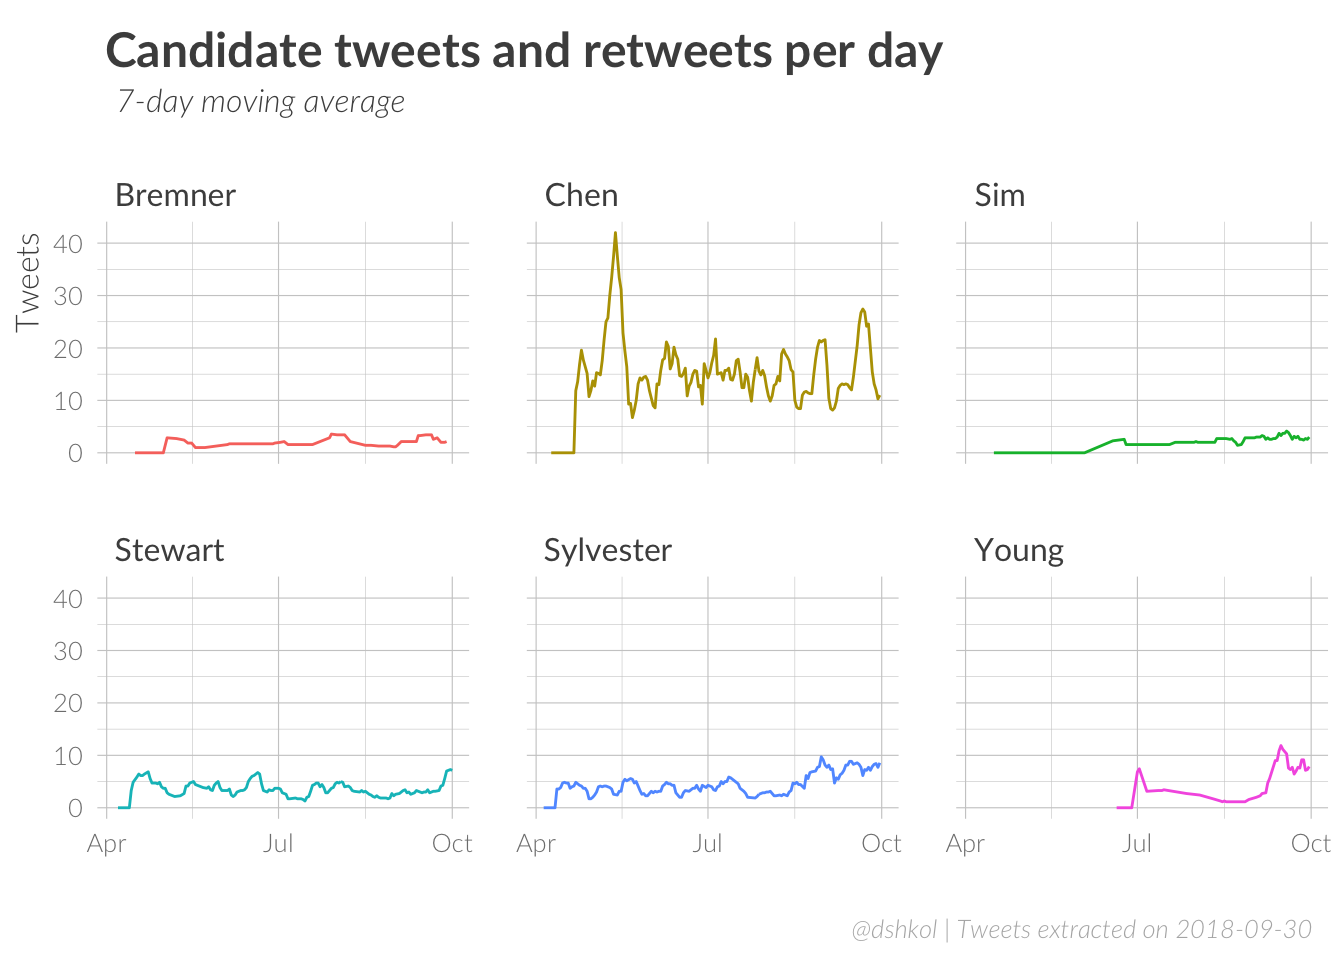
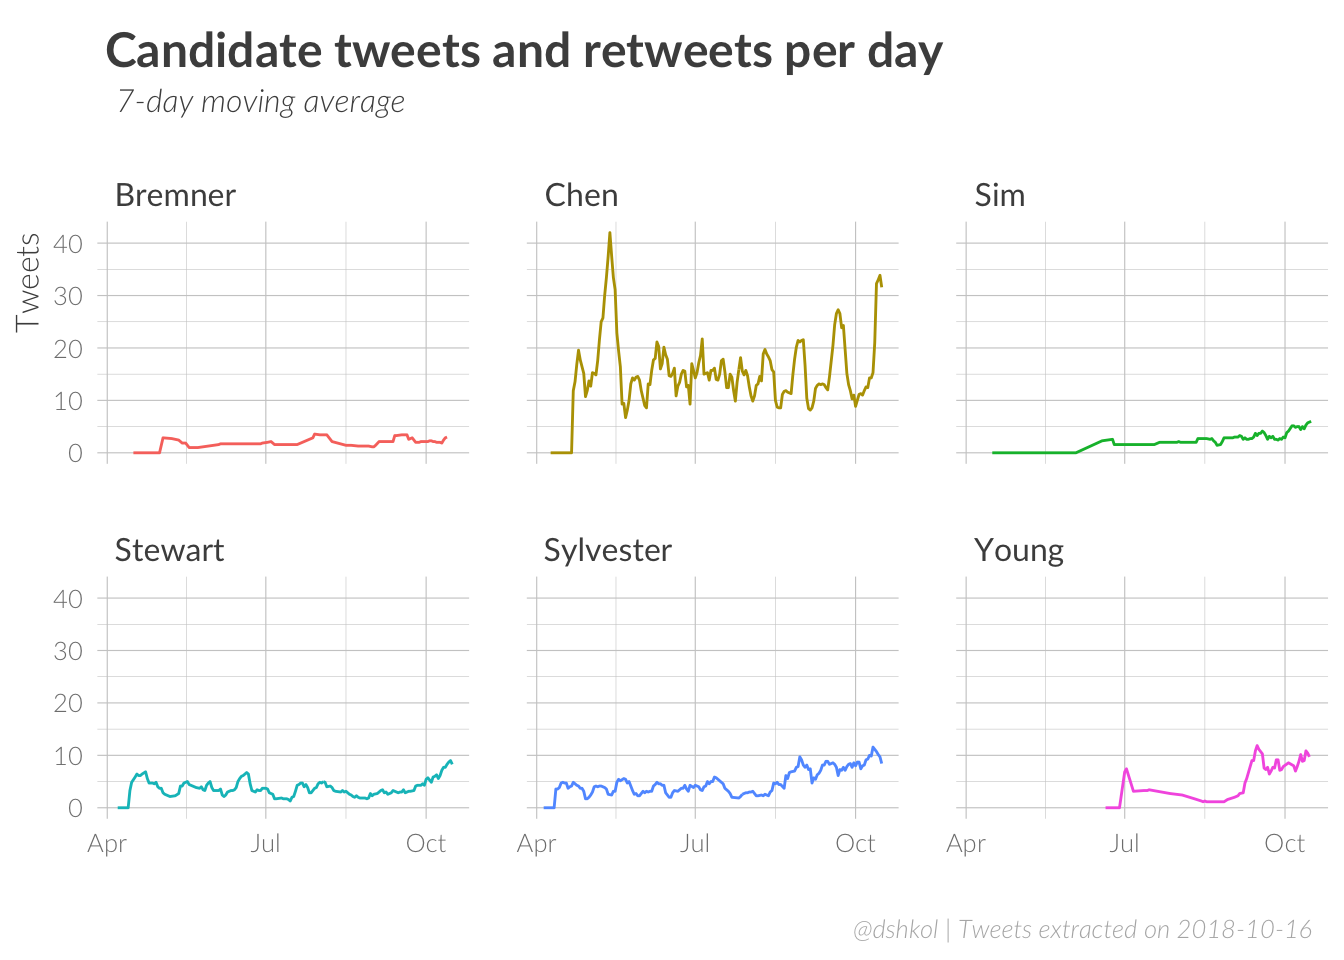
Update mayor tweet post
Extend tweet collection period up to October 15.

diff --git a/content/post/2018-10-01-a-look-at-the-vancouver-mayor-twitter-picture.html b/content/post/2018-10-01-a-look-at-the-vancouver-mayor-twitter-picture.html
@@ -19,6 +19,9 @@ draft: no
 
 
 
+<blockquote>
+<p>(Updated October 16, 2018) With the election coming up in the next week and this page getting more traffic, I decided to do a quick refresh of the data used in this post up to and including October 15. Changes are relatively few, and as this site is a github repo, can be tracked via commits to this post.</p>
+</blockquote>
 <div id="the-2018-municipal-election-in-vancouver" class="section level3">
 <h3>The 2018 Municipal Election in Vancouver</h3>
 <p>On October 20, a relatively small portion of Vancouverites will vote to elect a mayor, 10 city councillors, 7 park board commissioners and 9 school trustees. Municipal elections do not receive the fanfare or attention of federal or provincial elections and see lower turnouts, but they are an important determinant towards the policies that affect the everyday lives of city residents.</p>
@@ -42,7 +45,7 @@ draft: no
 {{% tweet "1037388282286419968" %}}</li>
 </ul>
 <p><img src="/post/2018-10-01-a-look-at-the-vancouver-mayor-twitter-picture_files/figure-html/volume-1.png" width="672" />
-Of the six, Chen has been the most active tweeter since April 2018 with 2598 tweets, more than three and five times as many as the next prolific tweeters in Sylvester and Stewart, respectively. Bremner, Sim, and Young, in comparison are much less active tweeters, but all appear to have increased their tweeting as the election draws closer.</p>
+Of the six, Chen has been the most active tweeter since April 2018 with 2943 tweets, more than three and five times as many as the next prolific tweeters in Sylvester and Stewart, respectively. Bremner, Sim, and Young, in comparison are much less active tweeters, but all appear to have increased their tweeting as the election draws closer.</p>
 </div>
 <div id="engagement-trends" class="section level3">
 <h3>Engagement trends</h3>
@@ -68,10 +71,13 @@ We already saw earlier that Chen’s tweets are, on average, the most negative a
 <h3>Tweet language differences</h3>
 <p>Individual words or word-like components can be extracted from any text corpus, such as tweets, using a process called <a href="https://nlp.stanford.edu/IR-book/html/htmledition/tokenization-1.html">tokenization</a>. Again, with the NLP tools at our disposal nowadays, this is straight-forward and is further aided by the existence of Twitter specific <a href="http://www.cs.cmu.edu/~ark/TweetNLP/">token-parsers</a> lexicons of common stop-words that are not interesting for analysis (“it”, “the”, etc.). This is less of an issue with mayoral candidates who are more likely than the average Twitter user to post in standard English, but it allows for generalization of this process to other Twitter users who may use non-standard English terms (“smh”, “wtf”, “:)”, etc.).
 <img src="/post/2018-10-01-a-look-at-the-vancouver-mayor-twitter-picture_files/figure-html/text1-1.png" width="672" />
-Token analysis of the candidates’ tweets shows a fair bit of similarity: <em>Vancouver</em>, <em>city</em>, <em>people</em> regularly appearing as the most frequently used words by almost all candidates. Other differences do appear between candidates, however. Consider Sim’s emphasis on <em>team</em>, Bremner’s <em>hope</em>, Chen’s <em>tax</em> and <em>money</em>, and Young’s <em>bike</em>. Both Stewart and Sylvester really emphasis <em>housing</em> in their tweets.</p>
+Token analysis of the candidates’ tweets shows a fair bit of similarity: <em>Vancouver</em>, <em>city</em>, <em>people</em> regularly appearing as the most frequently used words by almost all candidates. Other differences do appear between candidates, however. Consider Sim’s emphasis on <em>team</em>, Bremner’s <em>hope</em> … and <em>prior(?)</em>, Chen’s <em>tax</em> and <em>money</em>, and Young’s <em>bike</em>. Both Stewart and Sylvester really emphasis <em>housing</em> in their tweets, as well as Chen to a lesser extent.</p>
 <p>As this text comes from tweets, we can combine it those tweets’ engagement numbers to see if any of these words are more likely to lead to likes than other words for each candidate.
 <img src="/post/2018-10-01-a-look-at-the-vancouver-mayor-twitter-picture_files/figure-html/text2-1.png" width="672" />
 A few things immediately stand out that should be obvious to anyone who has paid attention to this race to this point: Stewart’s audience cares about the coast and his plan to fight the Kinder Morgan pipeline expansion. Sylvester’s audience cares about the Broadway Millennium Line extension. Young’s tweets about bike lanes appear to particularly resonate, Sim is earning engagement for being Sim and not for what he tweets, and Bremner needs to tweet more so that his data can be quantitatively meaningful.</p>
+<blockquote>
+<p>(Oct.16) Update: not too many changes here with the exception of Sylvester who appears to have greater amounts of positive engagements for her recent “leadership”-focused posts. This coincides with a significant increase in the average number of engagements for Sylvester’s posts but it’s not obvious whether there is a causal relationship there.</p>
+</blockquote>
 </div>
 <div id="a-note-on-data-and-tools" class="section level3">
 <h3>A note on data and tools</h3>
